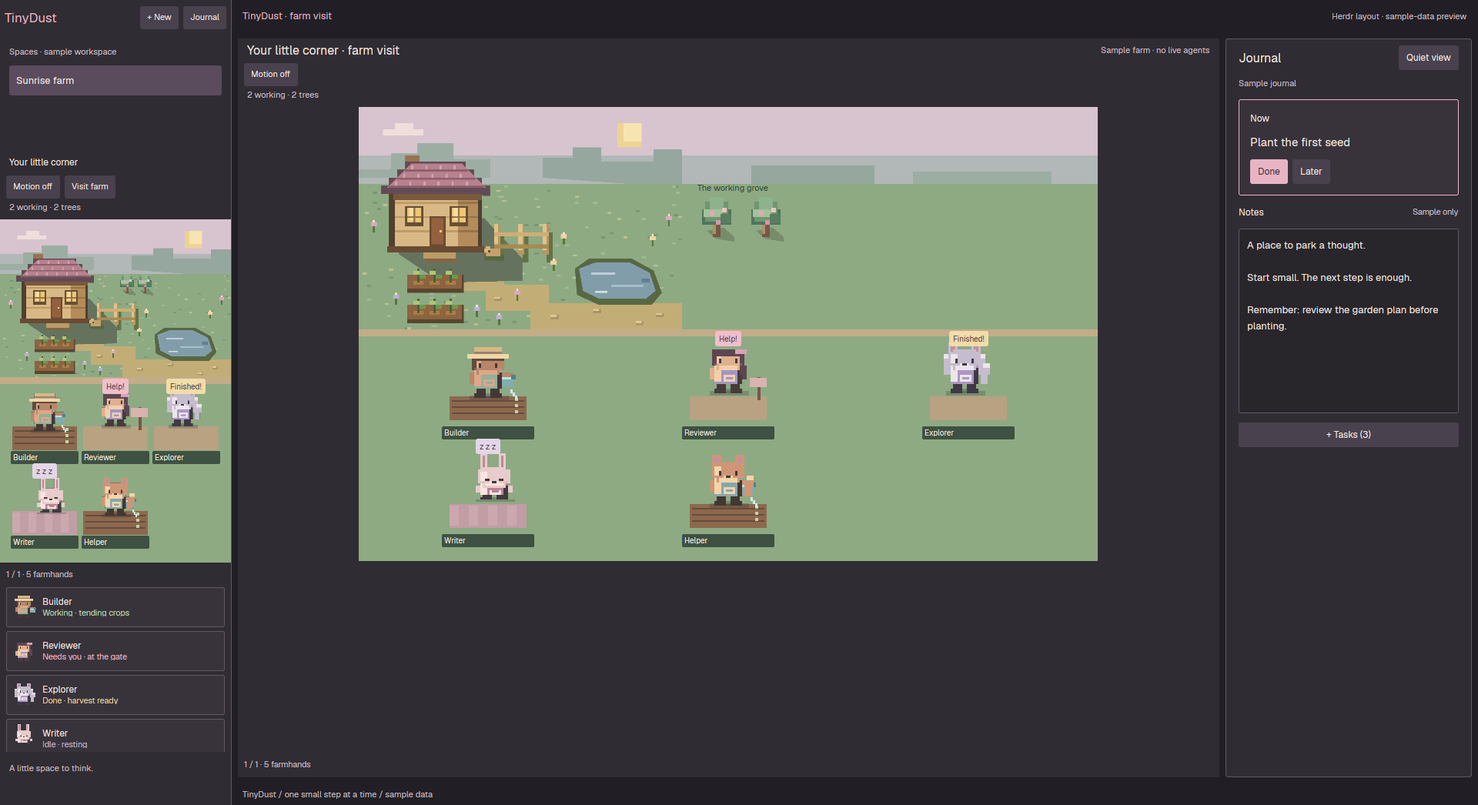
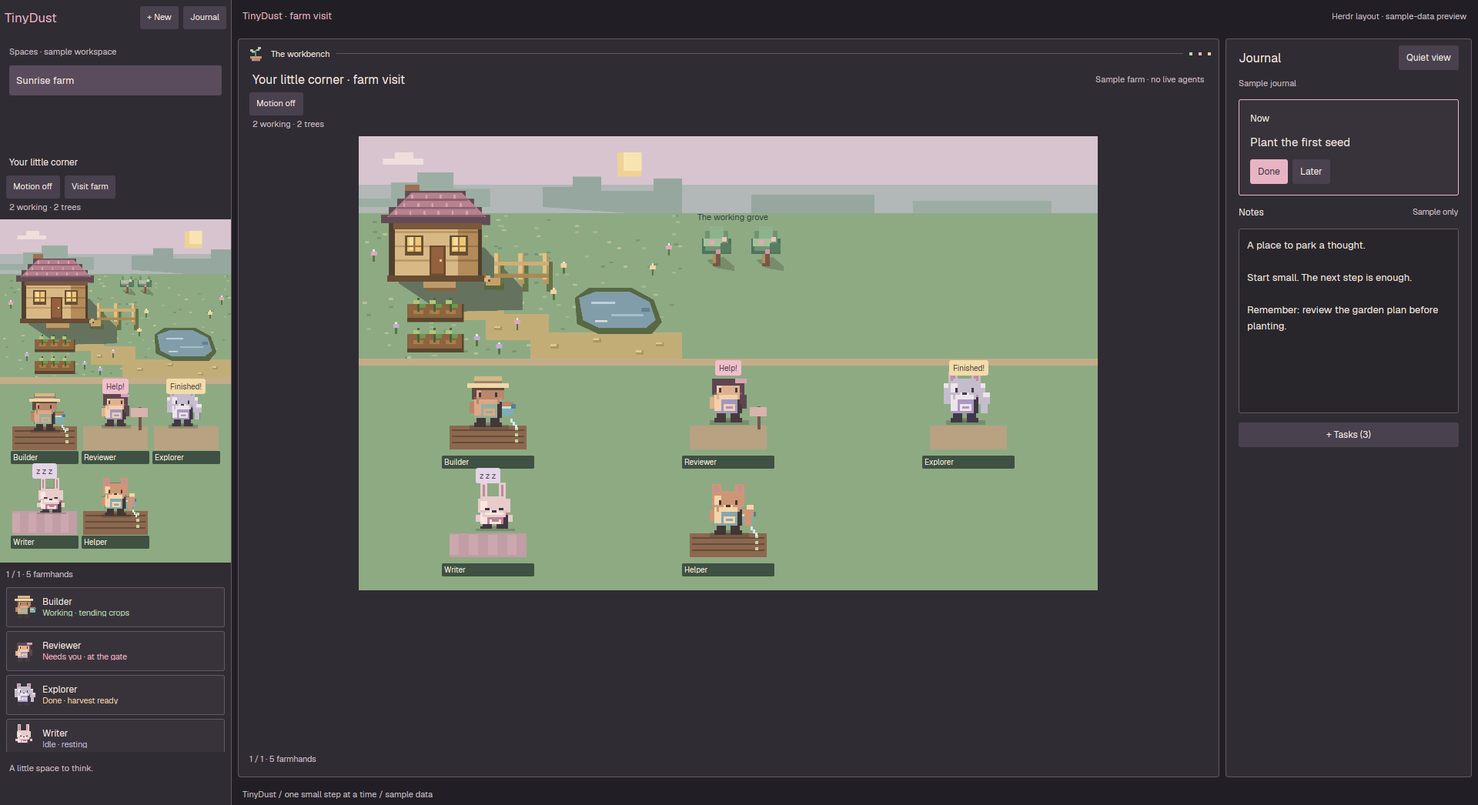
Add a cozy workbench frame around terminals

Changed region(s): [[0.1562, 0.0612, 0.75, 0.7342], [0.75, 0.0612, 0.8125, 0.1224], [0.1875, 0.9178, 0.2188, 0.979]]

diff --git a/tests/garden.test.js b/tests/garden.test.js
@@ -30,7 +30,7 @@ function harness() {
     openOverlay:spec=>calls.push(['openOverlay',spec]),closeOverlay:id=>calls.push(['closeOverlay',id]),
     notify(){throw Error('Scene must not duplicate Herdr notifications');},playSound(){throw Error('Scene must not duplicate Herdr sounds');}};
   vm.createContext(context);
-  for(const file of ['game.js','scene.js','toast.js','creation.js','main.js']){
+  for(const file of ['game.js','scene.js','toast.js','creation.js','workbench.js','main.js']){
     const source=readFileSync(new URL('../mods/tinydust/'+file,import.meta.url),'utf8').replace(/^import .*;\n/gm,'').replace(/export (function|const) /g,'$1 ').replace('export default class TinyDust','class TinyDust');
     vm.runInContext(source+(file==='main.js'?'\nthis.Garden=TinyDust;':''),context);
   }
@@ -63,6 +63,21 @@ test('New menu routes tab, space and terminal to captured targets; stale targets
   assert.equal(h.calls.length,count);
   h.props({role:'brand',demo:true});h.garden.width=44;
   assert(has(h.nodes(),'create-open'));assert(!has(h.nodes(),'journal-toggle'));
+});
+
+test('workbench decoration stays outside the terminal and preserves native pane controls',()=>{
+  const h=harness();h.props({role:'workbench'});
+  let nodes=h.nodes();assert(has(nodes,'workbench-trim'));assert(nodes.includes('The workbench'));
+  assert(nodes.some(n=>n.attrs?.image?.[0]==='mods/tinydust/workbench-sprout.svg'));
+  assert(!nodes.some(n=>n.attrs?.on_click));assert.equal(h.calls.length,0);
+  h.garden.width=100;nodes=h.nodes();assert(has(nodes,'workbench-trim'));assert(nodes.includes('The workbench'));
+  const layout=JSON.parse(readFileSync(new URL('../layouts/tinydust.json',import.meta.url),'utf8'));
+  const visit=node=>[node,...(node.children??[]).flatMap(visit)], all=visit(layout);
+  const shell=all.find(node=>node.id==='workbench'),main=all.find(node=>node.id==='main');
+  assert(shell.children.includes(main));assert.equal(main.content.tab,'active');
+  assert.equal(main.content.pane.header.content.mod,'pane');assert.equal(main.content.pane.header.reveal,'always');
+  assert.equal(main.content.pane.focus.color,'accent');assert.equal(main.content.pane.focus.width,2);
+  assert.equal(layout.terminal_padding[0],14);assert.equal(layout.terminal_padding[1],12);
 });
 
 test('working agents grow trees; counts stay honest and large scenes stay bounded',()=>{

diff --git a/tests/preview/main.js b/tests/preview/main.js
@@ -2,14 +2,27 @@
 import {View,div} from "gpui-kit";
 import {v_flex,h_flex} from "gpui-base";
 import {props,theme} from "herdr";
+import {workbench} from "./workbench.js";
 export default class Preview extends View {
+  init(){this.width=300;}
   render() {
     const t=theme(),role=props()?.role;
     if(role==='spaces')return v_flex().size_full().p(12).gap(9)
       .child(div().text_size(11).text_color(t.muted).child('Spaces · sample workspace'))
       .child(div().p(9).rounded(3).bg(t.selected).text_size(13).child('Sunrise farm'));
+    if(role==='workbench')return workbench(t,this.width).on_size_change((size,cx)=>{if(size.width!==this.width){this.width=size.width;cx.notify();}});
+    if(role==='terminal')return v_flex().size_full().min_w(0).min_h(0).rounded(6).border(2).border_color(t.accent).bg(t.background).overflow_hidden()
+      .child(h_flex().h(30).px(10).gap(8).items_center().flex_none().border_b(1).border_color(t.border)
+        .child(div().text_size(12).font_semibold().child('Sample shell'))
+        .child(div().flex_1().min_w(0).truncate().text_size(12).text_color(t.dim).child('~/sample-garden')))
+      .child(v_flex().p(14).gap(7).font_family('JetBrains Mono').text_size(14).text_color(t.foreground)
+        .child(div().text_color(t.muted).child('# Sample terminal · no live output'))
+        .child(div().child('$ cd little-garden'))
+        .child(div().child('$ cat notes.txt'))
+        .child(div().text_color(t.working).child('One small step is enough.'))
+        .child(div().child('$ ▌')));
     if(role==='tabs')return h_flex().size_full().items_center().px(14).gap(14)
-      .child(div().text_size(13).font_semibold().text_color(t.accent).child('TinyDust · farm visit'))
+      .child(div().text_size(13).font_semibold().text_color(t.accent).child(props()?.terminal?'TinyDust · sample terminal':'TinyDust · farm visit'))
       .child(div().flex_1()).child(div().text_size(11).text_color(t.muted).child('Herdr layout · sample-data preview'));
     if(role==='footer')return div().p(12).text_size(11).text_color(t.muted).child('A little space to think.');
     return div().px(14).py(5).text_size(11).text_color(t.muted).child('TinyDust / one small step at a time / sample data');

diff --git a/mods/tinydust/main.js b/mods/tinydust/main.js
@@ -5,6 +5,7 @@ import {STATES,UNKNOWN,characterFor,scenePage,grove} from "./game.js";
 import {actor,farmScene} from "./scene.js";
 import {toastView} from "./toast.js";
 import {creationTarget,creationMenu} from "./creation.js";
+import {workbench} from "./workbench.js";
 
 const SAMPLE=[
   {address:"sample-1",space:"sample",program:{name:"Builder"},tab_name:"Plant the first seed",status:"working"},
@@ -42,6 +43,7 @@ export default class TinyDust extends View {
     const quiet=!demo&&shared("tinydust.quiet")===true;
     const motion=(demo?this.demoMotion:shared("tinydust.motion")===true)&&!quiet;
     const measure=(size,cx)=>{if(size.width!==this.width||size.height!==this.height){this.width=size.width;this.height=size.height;cx.notify();}};
+    if(p.role==="workbench")return workbench(t,this.width).on_size_change(measure);
     if(p.role==="brand")return h_flex().id("tinydust-brand").size_full().items_center().px(6).gap(6).on_size_change(measure)
       .when(this.width>=160,e=>e.child(div().text_size(17).font_bold().text_color(t.accent).child(this.width<240?"TD":"TinyDust")).child(div().flex_1()))
       .child(button("create-open",this.width>=160?"+ New":"+",()=>openOverlay({

diff --git a/tests/native-check/main.js b/tests/native-check/main.js
@@ -3,12 +3,15 @@ import {View,div} from "gpui-kit";
 import {farmScene} from "./scene.js";
 import {toastView} from "./toast.js";
 import {creationMenu} from "./creation.js";
+import {workbench} from "./workbench.js";
 import {theme} from "herdr";
 export default class NativeCheck extends View {
   render() {
     const list=["working","blocked","done","idle","working","idle"].map((status,i)=>({address:`check-${i}`,program:{name:`Sample ${i}`},status,focused:i===0}));
     return div().flex().flex_col().children([
       div().w(280).h(196).child(creationMenu({target:{}},theme())),
+      div().w(280).h(26).child(workbench(theme(),280)),
+      div().w(120).h(26).child(workbench(theme(),120)),
       farmScene(list,list,{width:300,motion:true,shaken:"check-0",onTree:()=>{},onAgent:()=>{}}),
       farmScene(list,list,{width:880,motion:false,expanded:true,onTree:()=>{},onAgent:()=>{}}),
       div().h(80).child(toastView({overlay:"check-only",title:"Sample finished",body:"Sample workspace",level:"info",action:{name:"agent.focus",args:{terminal:"check-2"}}},theme())),

diff --git a/mods/tinydust/workbench.js b/mods/tinydust/workbench.js
@@ -1,0 +1,13 @@
+import {div,image} from "gpui-kit";
+import {h_flex} from "gpui-base";
+
+// Decorative only: native pane headers and terminal hit targets remain untouched.
+export function workbench(t,width) {
+  return h_flex().id("workbench-trim").size_full().min_w(0).px(4).gap(8).items_center()
+    .child(image("mods/tinydust/workbench-sprout.svg").w(24).h(24).flex_none())
+    .child(div().min_w(0).truncate().text_size(11).font_semibold().text_color(t.foreground).child("The workbench"))
+    .when(width>=200,e=>e.child(div().flex_1().min_w(0).h(1).bg(t.border))
+      .child(div().w(4).h(4).flex_none().bg(t.working))
+      .child(div().w(4).h(4).flex_none().bg(t.accent))
+      .child(div().w(4).h(4).flex_none().bg(t.done)));
+}

diff --git a/scripts/screenshot.py b/scripts/screenshot.py
@@ -1,4 +1,5 @@
 """Capture Herdr with explicit sample data, never terminals or the personal journal."""
+import argparse
 import json
 import os
 from pathlib import Path
@@ -7,6 +8,9 @@ import subprocess
 import time
 
 root=Path(__file__).resolve().parents[1]
+parser=argparse.ArgumentParser()
+parser.add_argument('--terminal',action='store_true',help='Show a mock terminal instead of the expanded sample farm')
+args=parser.parse_args()
 home=Path(os.environ.get('HERDR_APP_HOME') or Path(os.environ.get('XDG_CONFIG_HOME') or Path.home()/'.config')/'herdr-app')
 def call(*args):
     return subprocess.check_output(['herdr-app',*args],text=True)
@@ -21,10 +25,10 @@ if layout_path.exists() or mod_path.exists():
 x=json.loads((root/'layouts/tinydust.json').read_text())
 def replace(node):
     ident=node.get('id')
-    roles={'spaces':'spaces','sidebar-footer':'footer','tabs':'tabs','status':'status'}
-    if ident in roles: node['content']={'mod':'tinydust-preview','props':{'role':roles[ident]}}
+    roles={'spaces':'spaces','sidebar-footer':'footer','tabs':'tabs','status':'status','workbench-label':'workbench'}
+    if ident in roles: node['content']={'mod':'tinydust-preview','props':{'role':roles[ident],**({'terminal':True} if args.terminal and ident=='tabs' else {})}}
     if ident in ['agents','journal','brand']: node['content']['props']={**node['content'].get('props',{}),'demo':True}
-    if ident=='main': node['content']={'mod':'tinydust','props':{'role':'world','demo':True}}
+    if ident=='main': node['content']=({'mod':'tinydust-preview','props':{'role':'terminal'}} if args.terminal else {'mod':'tinydust','props':{'role':'world','demo':True}})
     if ident=='work-body': node['children']=[child for child in node['children'] if child['id']!='panel']
     for child in node.get('children',[]):replace(child)
 replace(x)
@@ -32,6 +36,8 @@ try:
     mod_path.mkdir()
     (mod_path/'mod.json').write_text('{"place":"none"}\n')
     shutil.copy2(root/'tests/preview/main.js',mod_path/'main.js')
+    (mod_path/'workbench.js').write_text((root/'mods/tinydust/workbench.js').read_text().replace('mods/tinydust/workbench-sprout.svg','mods/tinydust-preview/workbench-sprout.svg'))
+    shutil.copy2(root/'mods/tinydust/workbench-sprout.svg',mod_path/'workbench-sprout.svg')
     layout_path.write_text(json.dumps(x,indent=2)+'\n')
     call('check',str(mod_path))
     call('do','layout.switch','--name','tinydust-preview')
@@ -39,8 +45,9 @@ try:
     status=json.loads(call('status'))
     if status['layout']!='tinydust-preview' or status.get('errors') or status.get('overlays'):
         raise RuntimeError('Preview not clean. No screenshot captured.')
-    print(call('shot',str(root/'preview.png')))
+    print(call('shot',str(root/('preview-workbench.png' if args.terminal else 'preview.png'))))
 finally:
-    call('do','layout.switch','--name',previous)
+    if json.loads(call('status')).get('layout')=='tinydust-preview':
+        call('do','layout.switch','--name',previous)
     layout_path.unlink(missing_ok=True)
     shutil.rmtree(mod_path,ignore_errors=True)

diff --git a/scripts/check-native.py b/scripts/check-native.py
@@ -1,4 +1,4 @@
-"""Check scenes, motion, toasts and the creation menu without installing test mods."""
+"""Check scenes, toasts, the creation menu and workbench trim without installing test mods."""
 from pathlib import Path
 import shutil
 import subprocess
@@ -8,6 +8,6 @@ root=Path(__file__).resolve().parents[1]
 with tempfile.TemporaryDirectory(prefix='tinydust-check-') as directory:
     target=Path(directory)
     shutil.copy2(root/'tests/native-check/main.js',target/'main.js')
-    for name in ['game.js','scene.js','toast.js','creation.js']:
+    for name in ['game.js','scene.js','toast.js','creation.js','workbench.js']:
         shutil.copy2(root/'mods/tinydust'/name,target/name)
     subprocess.run(['herdr-app','check',str(target)],check=True)

diff --git a/RECIPE.md b/RECIPE.md
@@ -11,7 +11,7 @@ An interactive, 8-bit-inspired Herdr farm with a rose roof, sage grass, and anim
 - Up to six characters per page, or three in shorter sidebar panels. Previous/Next reaches everyone. A focused agent gets a pale ground marker; a newly focused off-page agent brings its page into view. A compact, scrollable agent list remains below. Small or Quiet sidebars omit the scene but keep this list.
 - Visit farm opens a 940×720 native dialog with the same live farm, larger sprites, Back to work, and Alert settings. The world is at most 960px wide and scrolls vertically if needed. Escape closes it. No terminal sessions or workspaces are created or closed.
 - Eight characters: Miso/cat, Clover/rabbit, Maple/fox, Cocoa/bear, Fern/frog, Sunny/duck, Rowan/farmer, Sage/gardener. Muted lilac, rose, sage, honey, and teal. They are artwork for existing agents, not additional running agents.
-- Center: Herdr's normal tab bar, active terminal splits, pane controls, Files/Changes panels and status bar. Right: 320px Journal, resizable 280–460, with Now, 240px multiline Notes, and collapsed Tasks.
+- Center: Herdr's normal tab bar, active terminal splits, pane controls, Files/Changes panels and status bar. The active tab sits in a softly bordered workbench frame with a tiny original pixel sprout, a short label, and sage/rose/honey trim. A 2px accent border marks the focused pane. The trim is outside terminal content, costs a little vertical/horizontal space, and contains no controls or animation. Right: 320px Journal, resizable 280–460, with Now, 240px multiline Notes, and collapsed Tasks.
 - Terminal `#28262b`, text `#f2e7e2`, chrome `#302c33`, accent `#e8b4c4`. Respect the user's fonts. Keep text readable; no flashing warnings or reward counters.
 
 ## How it behaves
@@ -31,10 +31,10 @@ An interactive, 8-bit-inspired Herdr farm with a rose roof, sage grass, and anim
 
 ## Built from
 
-- `layouts/tinydust.json`: root row → sidebar + work column; work body → active tab, hidden Files/Changes, journal. Root `toast: "tinydust"`.
+- `layouts/tinydust.json`: root row → sidebar + work column; work body → workbench frame (trim + active tab), hidden Files/Changes, journal. Keep `main` as the active-tab block; use Herdr's shipped `pane` header rather than replacing native pane controls. Root `toast: "tinydust"`.
 - `themes/tinydust.json`: ANSI and semantic panel colors.
 - `mods/tinydust/main.js`: brand/default garden/`role: "world"` dispatch, measured dimensions, page selection, tree interaction, overlay controls. Notification props (`overlay` plus `title`) dispatch to `toastView`.
-- `creation.js`: native three-choice creation popup, current context capture, stale-target checks and explicit native commands. `game.js`: pure status labels, stable character identity, pagination, working-grove count, bounded lane positions. `scene.js`: native drawing, original work/rest/cheer sprites, water, nameplates, tree clicks, optional motion. `toast.js`: notification presentation, dismissal, and original actions.
+- `workbench.js`: non-interactive trim with `workbench-sprout.svg`; remove the decorative line/dots below 200px. No text, input or controls overlap the terminal. `creation.js`: native three-choice creation popup, current context capture, stale-target checks and explicit native commands. `game.js`: pure status labels, stable character identity, pagination, working-grove count, bounded lane positions. `scene.js`: native drawing, original work/rest/cheer sprites, water, nameplates, tree clicks, optional motion. `toast.js`: notification presentation, dismissal, and original actions.
 - `mods/tinydust-journal`: native input, textarea and buttons; validation and immutable task operations in `state.js`. Per-copy localStorage schema `{version:1, notes, tasks:[{id,text,done}], now}`.
 - Shared settings: `tinydust.motion`, `tinydust.quiet`. The installer may update global `sounds.done` under the documented policy; runtime mods do not rewrite settings. No journal schema changes or new keyboard bindings.
 - Shipped mods referenced, not bundled: spaces, tabs, pane, files, changes, workspace-chrome, workspace-status. Use Herdr live data, normal focus/layout/overlay commands and theme colors. Runtime mods perform no network calls, background helper subprocesses, agent-plugin installs, terminal-output reads, or project-file reads. Explicit New menu choices do create shells through Herdr commands.
@@ -47,7 +47,7 @@ An interactive, 8-bit-inspired Herdr farm with a rose roof, sage grass, and anim
 - Keep scene unit hit boxes narrow: full-scene overlapping wrappers can swallow another unit's clicks. Keep decorative layers noninteractive and provide native named Buttons for actions.
 - Bound scenes through pagination, not by silently dropping agents. Tree cap must be visible in the text, and all relevant agents must contribute to the counter, including off-page ones.
 - A snapshot's demo props must never focus a real agent, write the personal journal, or change real motion/Quiet preferences. Sample world state is separate.
-- The screenshot substitutes the expanded farm for terminal content and marks sample data explicitly. The regular center remains terminals; Visit farm is a dialog.
+- Screenshot modes substitute either the expanded farm or a clearly labeled mock terminal for real terminal content; both mark sample data explicitly. The regular center remains real terminals; Visit farm is a dialog. The staged preview copies only the decorative trim and does not need to install it first.
 - Never publish config data, shared state, real terminal screenshots, or personal notes. No game asset packs or World of Codecraft sources are included; its work/rest/marker/expanded-map patterns are design inspiration only.
 - GPUI is native, not HTML/CSS. Read installed generated types. `herdr-app check` alone does not cover all later states; check populated scene and toast fixtures too.
 - No task edit/delete/export UI, cloud sync, tool-specific animations, custom agent hooks, pathfinding, XP, combat, or OS push notifications in this version. Quiet does not silence Herdr's own sounds. Full keyboard/screen-reader and cross-platform behavior remain unverified.
@@ -55,8 +55,8 @@ An interactive, 8-bit-inspired Herdr farm with a rose roof, sage grass, and anim
 ## Done when
 
 1. Both mods pass `herdr-app check`, and `python3 scripts/check-native.py` passes populated animated/static scenes and completion/generic toast variants.
-2. Ten Node tests pass: creation routing/stale targets/demo isolation, journal persistence/undo/error handling plus tree counts/caps, pagination, focus targets, character stability, pose assets, tree feedback, Quiet/motion, demo isolation and native completion-payload handling.
-3. Inspect normal and sample-data layouts. Verify characters stay inside their lanes, trees stand on ground, names/bubbles remain readable and every agent is reachable.
+2. Eleven Node tests pass: the workbench stays decorative and retains native pane headers, creation routing/stale targets/demo isolation, journal persistence/undo/error handling plus tree counts/caps, pagination, focus targets, character stability, pose assets, tree feedback, Quiet/motion, demo isolation and native completion-payload handling.
+3. Inspect sample-data layouts: farm and mock-terminal previews. Verify the workbench doesn't overlay text, characters stay inside their lanes, trees stand on ground, names/bubbles remain readable and every agent is reachable. Narrow workbench paths are exercised by native fixtures; a full constrained-window visual pass remains outstanding.
 4. Confirm existing terminals and the journal remain intact. Nothing sends input to an agent or starts another agent. Only explicit New menu selections create shells/spaces; test fixtures must not create real sessions.
 5. Confirm the public screenshot contains only labeled sample data. Document that completion delivery and playback are owned by Herdr, not duplicated by a mod observer.
 6. Eight Python sound/installer tests pass, covering first/repeated install, custom and mute preservation, opt-out/force behavior, backups, invalid/symlinked/stale settings, write failures and a sandboxed installer. Decode the MP3 and verify duration/peak/no clipping after regenerating it. The installed asset must exist and match the selected global path.

diff --git a/README.md b/README.md
@@ -6,6 +6,8 @@
 
 *Captured in Herdr with labeled sample agents, tasks, and workspace. The center demonstrates the expanded farm; normally your terminals live there and “Visit farm” opens the larger scene in a dialog. No personal notes, conversations, or project names are included.*
 
+[See the workbench with a labeled mock terminal](preview-workbench.png).
+
 ## A small, useful place
 
 - **Original pixel farm.** A tiled roof, vegetable beds, orchard, pond, and a sleeping cat. Stepped highlights, contact shadows, and diagonal cast shadows add depth without blurring the pixels. No ripped game assets.
@@ -14,6 +16,7 @@
 - **A grove that follows activity.** Each currently working agent in this space adds one tree. Tap a tree to see who it belongs to—and make it shake with motion enabled. Trees reflect current activity, not cumulative achievements or a productivity score.
 - **Completion you can notice.** Finished characters cheer and display a speech bubble. Herdr's existing completion toast gets a TinyDust portrait and “Harvest ready” styling; clicking it focuses that agent. Existing Herdr sounds are respected, with no second notification or extra loud sound.
 - **A gentle completion chime.** An original 1.2-second C-major melody is bundled. The installer selects it when no custom completion sound is set, preserving mute and existing custom sounds. **Herdr applies this sound globally, including other layouts.**
+- **A cozy workbench.** A tiny pixel sprout and garden-colored trim frame the terminal area; a clearer rose outline marks the focused pane. The decoration sits outside your terminal text. Herdr's original pane headers, split/zoom/close controls, fonts, and terminal colors stay intact.
 - **A softer palette.** Dusty rose, lilac, sage, apricot, and denim blue, grounded by warm charcoal. Colorful and a little sweet without turning everything pink.
 - **A simpler journal.** Just **Now** and **Notes** up front. Notes save locally as you type. Expand **Tasks** when you need the list; it starts folded away. The same journal follows you across spaces.
 - **Small tasks, fewer buttons.** Expand Tasks, type a step and press Enter or Add. Use **Focus** to make it your one Now task, or the circle to complete it. Completed tasks can be reopened; the last completion can be undone.
@@ -158,6 +161,7 @@ python3 scripts/check-native.py
 | `mods/tinydust/scene.js` | Native scene drawing, working/resting/cheering poses, interaction targets |
 | `mods/tinydust/toast.js` | Existing Herdr notifications in TinyDust style |
 | `mods/tinydust/creation.js` | Unified creation menu with captured/stale-target checks |
+| `mods/tinydust/workbench.js` | Decorative workbench trim; uses the original pixel sprout SVG |
 | `mods/tinydust-journal/` | Notes, tasks, Quiet view, storage |
 | `scripts/draw-art.py` | Deterministic, dependency-free farm SVG source |
 | `scripts/draw-characters.py` | Eight characters, work/rest/cheer poses, and lineup |
@@ -174,13 +178,14 @@ To regenerate the README screenshot, install TinyDust, open Herdr at a comfortab
 
 ```sh
 python3 scripts/screenshot.py
+python3 scripts/screenshot.py --terminal
 ```
 
-The script temporarily switches layouts, substitutes sample data and the expanded farm for private content, captures `preview.png`, then restores the previous layout. **Always inspect the whole image before publishing it.**
+The script temporarily switches layouts and substitutes sample data for private content. It captures the expanded farm as `preview.png` or a **mock**, non-interactive terminal as `preview-workbench.png`; then it restores the previous layout if the preview is still active. **Always inspect the whole image before publishing it.**
 
 ### Validation
 
-Ten Node test cases cover creation-menu routing and stale/demo targets, journal storage and undo, missing/corrupt data, save failures, demo isolation, exact agent focus, live tree counts and limits, pagination, stable characters, pose assets, Quiet view/motion, tree interactions, and Herdr's info-level completion toast format. Render tests use host doubles, not a full GUI driver. Both mods pass Herdr's native check; an additional fixture checks populated animated scenes, notification variants, and the creation menu. Creation routing is tested with host doubles; tests do not open real tabs or shells. Eight Python tests cover default/forced/opt-out sound selection, mute/custom-setting preservation, backups, invalid/symlinked/concurrently changed settings, failure cleanup, and installation in an isolated sandbox. The MP3 was decoded and measured locally (1.2 seconds, approximately −17.5 dBFS peak, no clipping); playback through the user's speakers was not auditioned. Live and sample-data layouts were visually inspected on Linux. Full keyboard/screen-reader, end-to-end notification delivery, and cross-platform testing remain outstanding.
+Eleven Node test cases cover decorative workbench layout and preservation of native pane headers, creation-menu routing and stale/demo targets, journal storage and undo, missing/corrupt data, save failures, demo isolation, exact agent focus, live tree counts and limits, pagination, stable characters, pose assets, Quiet view/motion, tree interactions, and Herdr's info-level completion toast format. Render tests use host doubles, not a full GUI driver. Both mods pass Herdr's native check; an additional fixture checks populated animated scenes, notification variants, the creation menu, and workbench trim at two widths. Creation routing is tested with host doubles; tests do not open real tabs or shells. Eight Python tests cover default/forced/opt-out sound selection, mute/custom-setting preservation, backups, invalid/symlinked/concurrently changed settings, failure cleanup, and installation in an isolated sandbox. The MP3 was decoded and measured locally (1.2 seconds, approximately −17.5 dBFS peak, no clipping); playback through the user's speakers was not auditioned. The workbench was visually inspected using a labeled mock terminal on Linux, not actual terminal output; narrow rendering was exercised by native fixtures and host doubles. Full keyboard/screen-reader, split-pane interaction, end-to-end notification delivery, constrained-window visual inspection, and cross-platform testing remain outstanding.
 
 ## Credits and license
 
